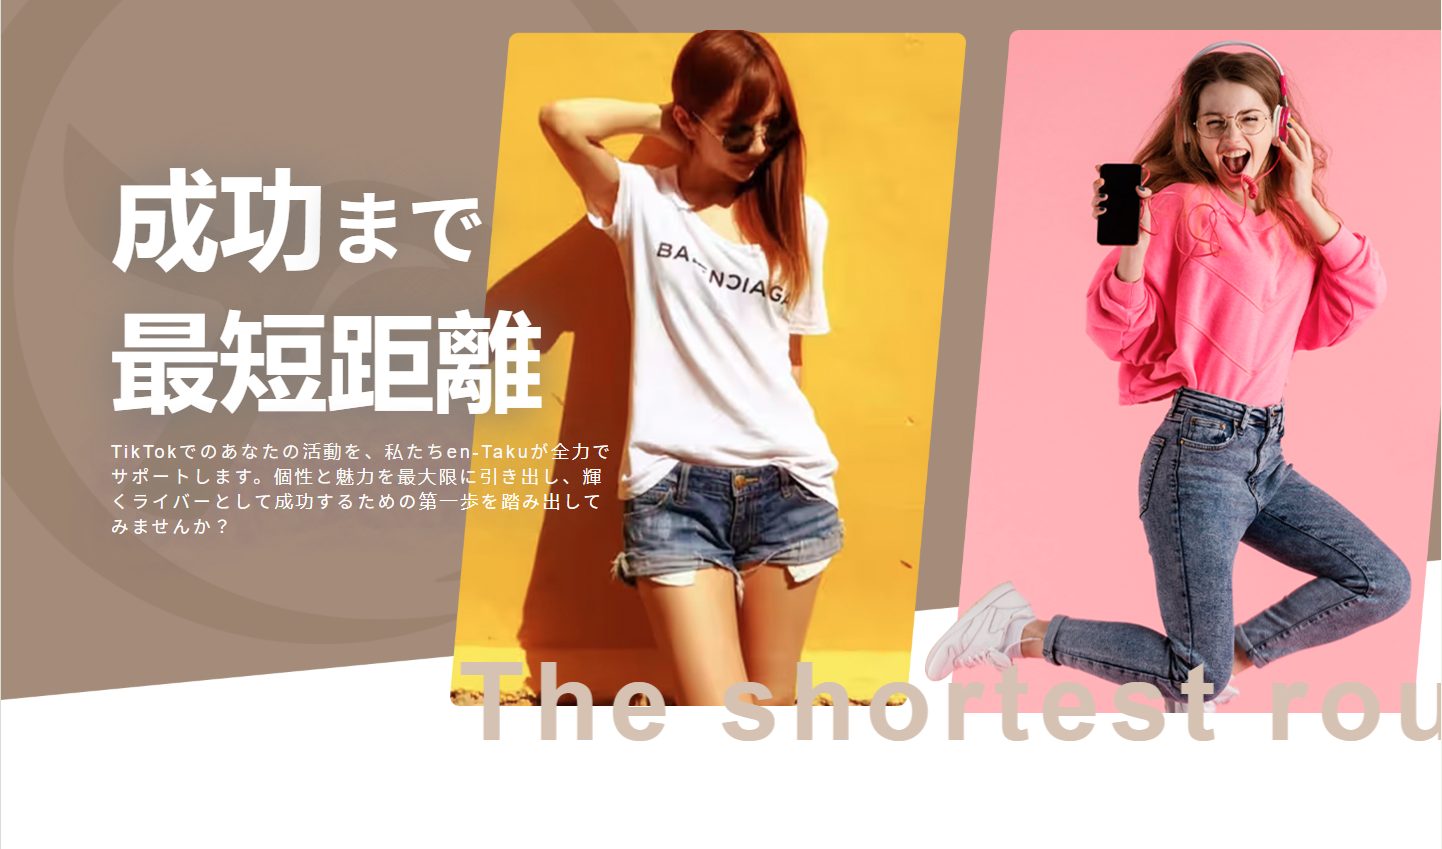
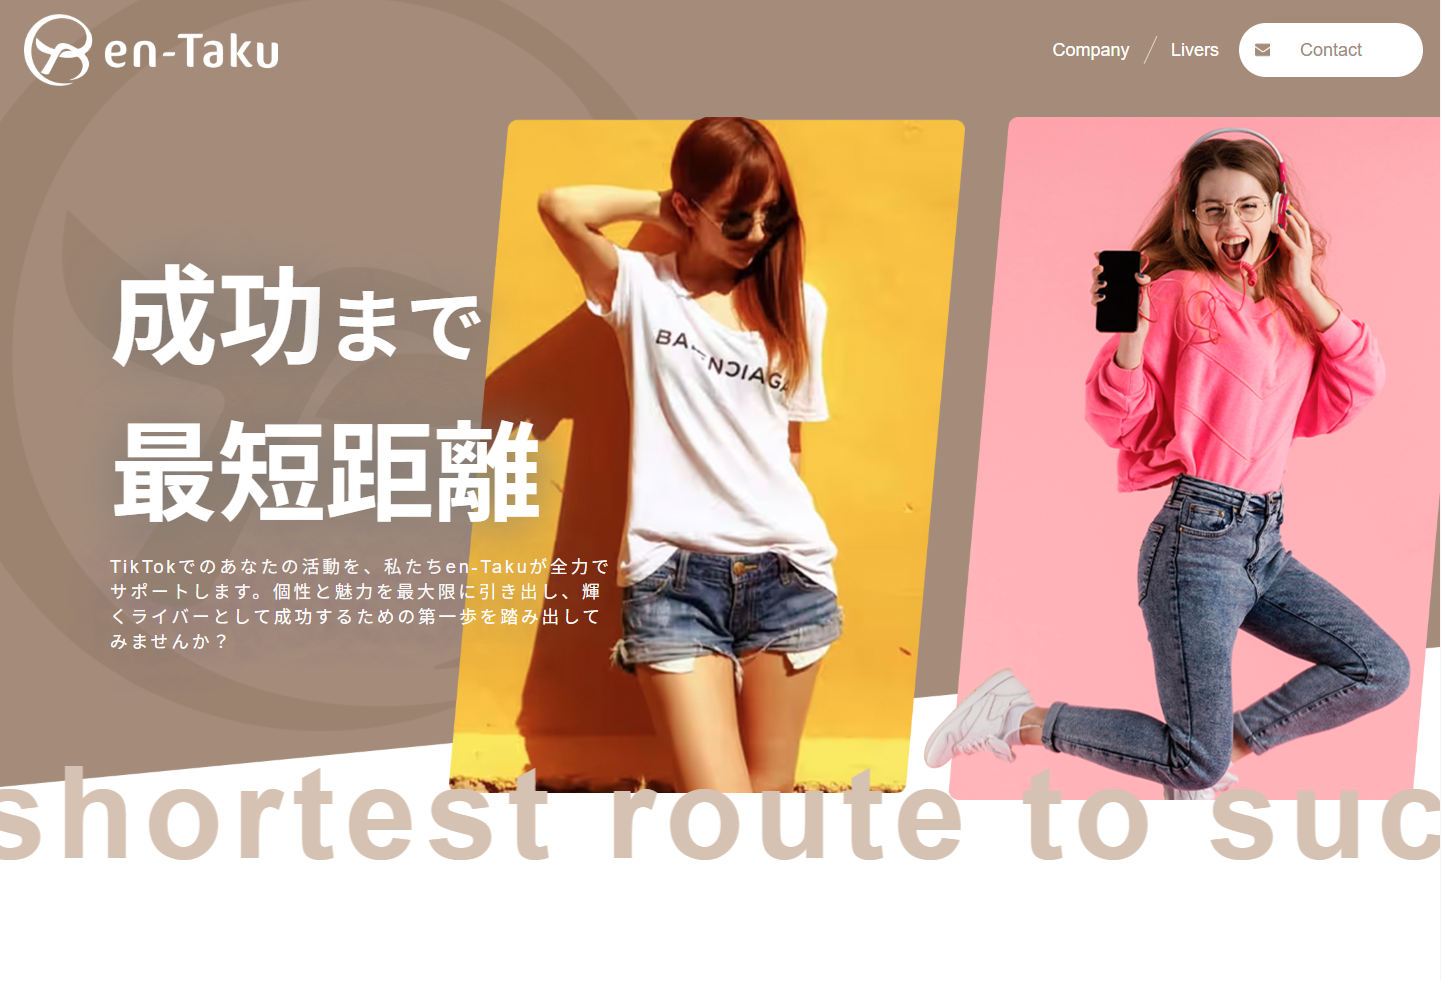
[FIX]: fix pixel

diff --git a/HTML/css/style.css b/HTML/css/style.css
@@ -24,11 +24,16 @@ header {
     font-size: 18px;
     list-style: none;
     display: flex;
-    gap: 20px;
+    gap: 50px;
     align-items: center;
     margin: 0;
     margin-right: 17px;
     padding: 0;
+    font-weight: 600;
+}
+
+.main-nav .pc {
+    font-size: 20px;
 }
 
 .main-nav li {
@@ -658,7 +663,7 @@ section.contact {
 
 .contact-item .item-title {
     padding-left: 1.46vw;
-    font-size: 8rem;
+    font-size: 7.7rem;
     font-weight: 700;
     font-family: sans-serif;
     letter-spacing: 5px;
@@ -689,11 +694,11 @@ section.contact {
 
 .footer-nav {
     list-style: none;
-    font-size: 16px;
+    font-size: 24px;
     display: flex;
     align-items: center;
     gap: 50px;
-    font-weight: 500;
+    font-weight: 600;
 }
 
 .footer-nav a,

diff --git a/custom/css/style.css b/custom/css/style.css
@@ -24,11 +24,16 @@ header {
     font-size: 18px;
     list-style: none;
     display: flex;
-    gap: 20px;
+    gap: 50px;
     align-items: center;
     margin: 0;
     margin-right: 17px;
     padding: 0;
+    font-weight: 600;
+}
+
+.main-nav .pc {
+    font-size: 20px;
 }
 
 .main-nav li {
@@ -658,7 +663,7 @@ section.contact {
 
 .contact-item .item-title {
     padding-left: 1.46vw;
-    font-size: 8rem;
+    font-size: 7.7rem;
     font-weight: 700;
     font-family: sans-serif;
     letter-spacing: 5px;
@@ -689,11 +694,11 @@ section.contact {
 
 .footer-nav {
     list-style: none;
-    font-size: 16px;
+    font-size: 24px;
     display: flex;
     align-items: center;
     gap: 50px;
-    font-weight: 500;
+    font-weight: 600;
 }
 
 .footer-nav a,

diff --git a/custom/index.php b/custom/index.php
@@ -369,22 +369,22 @@
         <div class="system-back"></div>
       </section>
       <section class="contact container-fluid">
-        <div class="contact-item" id="company">
+        <a href="<?php echo esc_url(get_template_directory_uri()); ?>/company" class="contact-item" id="company">
           <div class="item-title">
             Company
             <div class="description">会社概要</div>
           </div>
           <div class="more">more</div>
           <img src="<?php echo esc_url(get_template_directory_uri()); ?>/img/company.png" alt="company" />
-        </div>
-        <div class="contact-item">
+        </a>
+        <a href="" class="contact-item">
           <div class="item-title">
             Recruit
             <div class="description">採用情報</div>
           </div>
           <div class="more">more</div>
           <img src="<?php echo esc_url(get_template_directory_uri()); ?>/img/recruit.png" alt="recruit" />
-        </div>
+        </a>
         <div class="contact-item container-fluid" id="contact">
           <div class="item-title container">
             Contact
